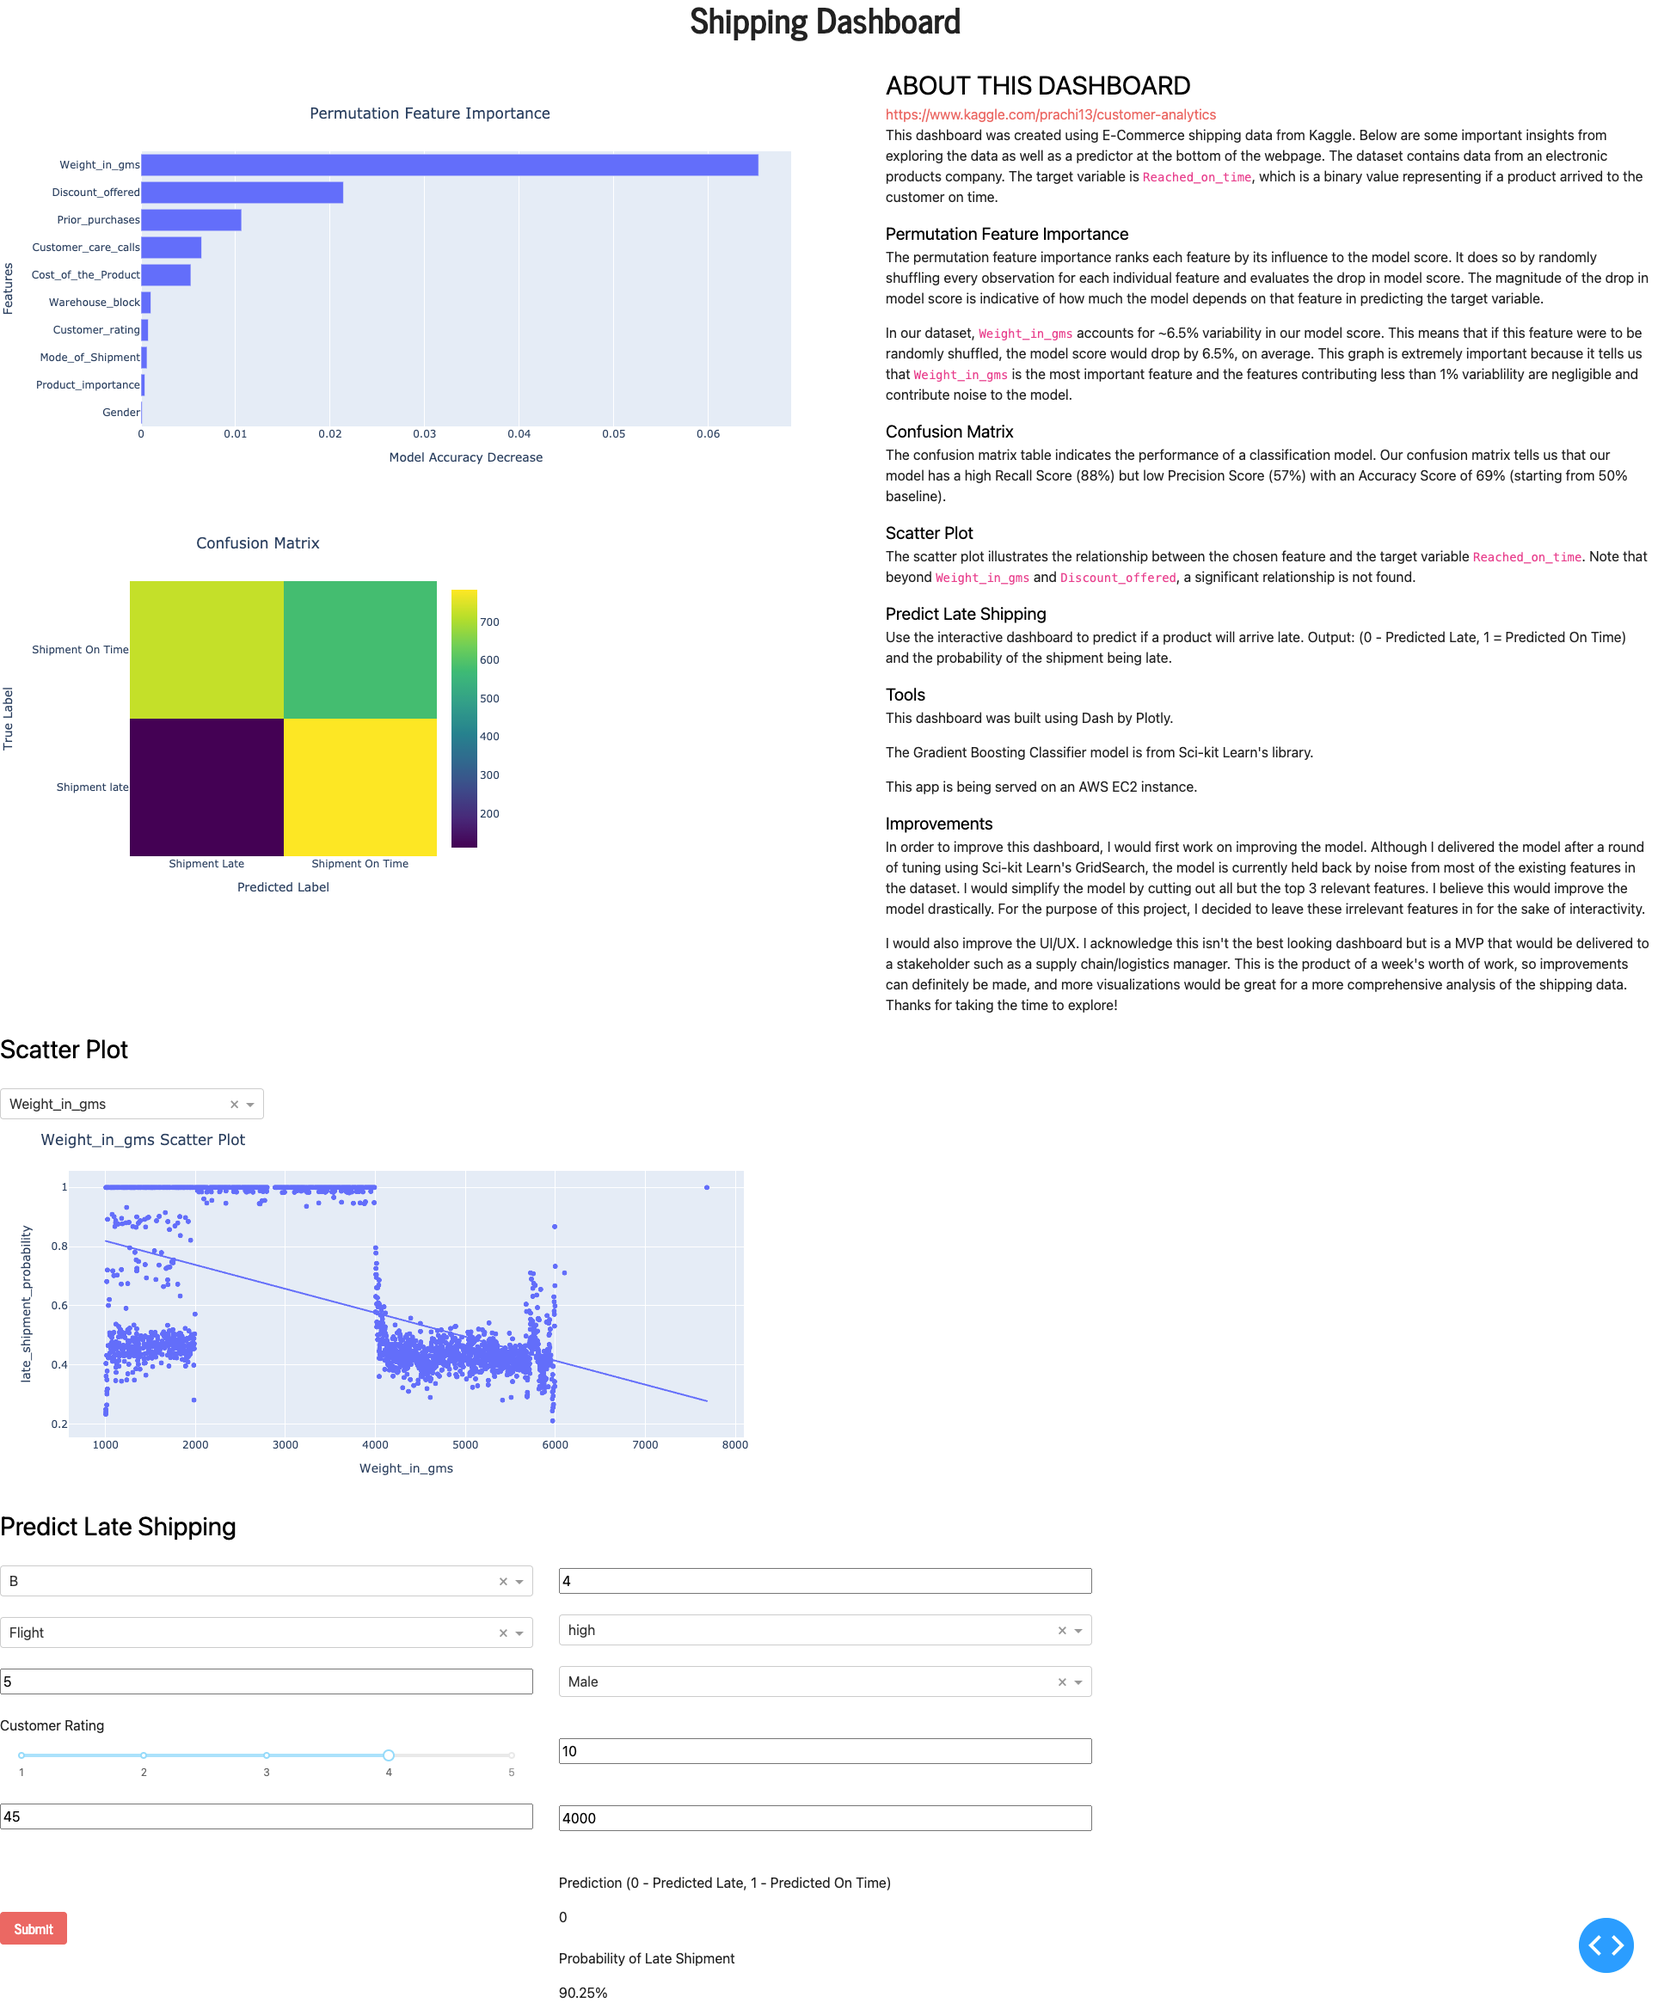
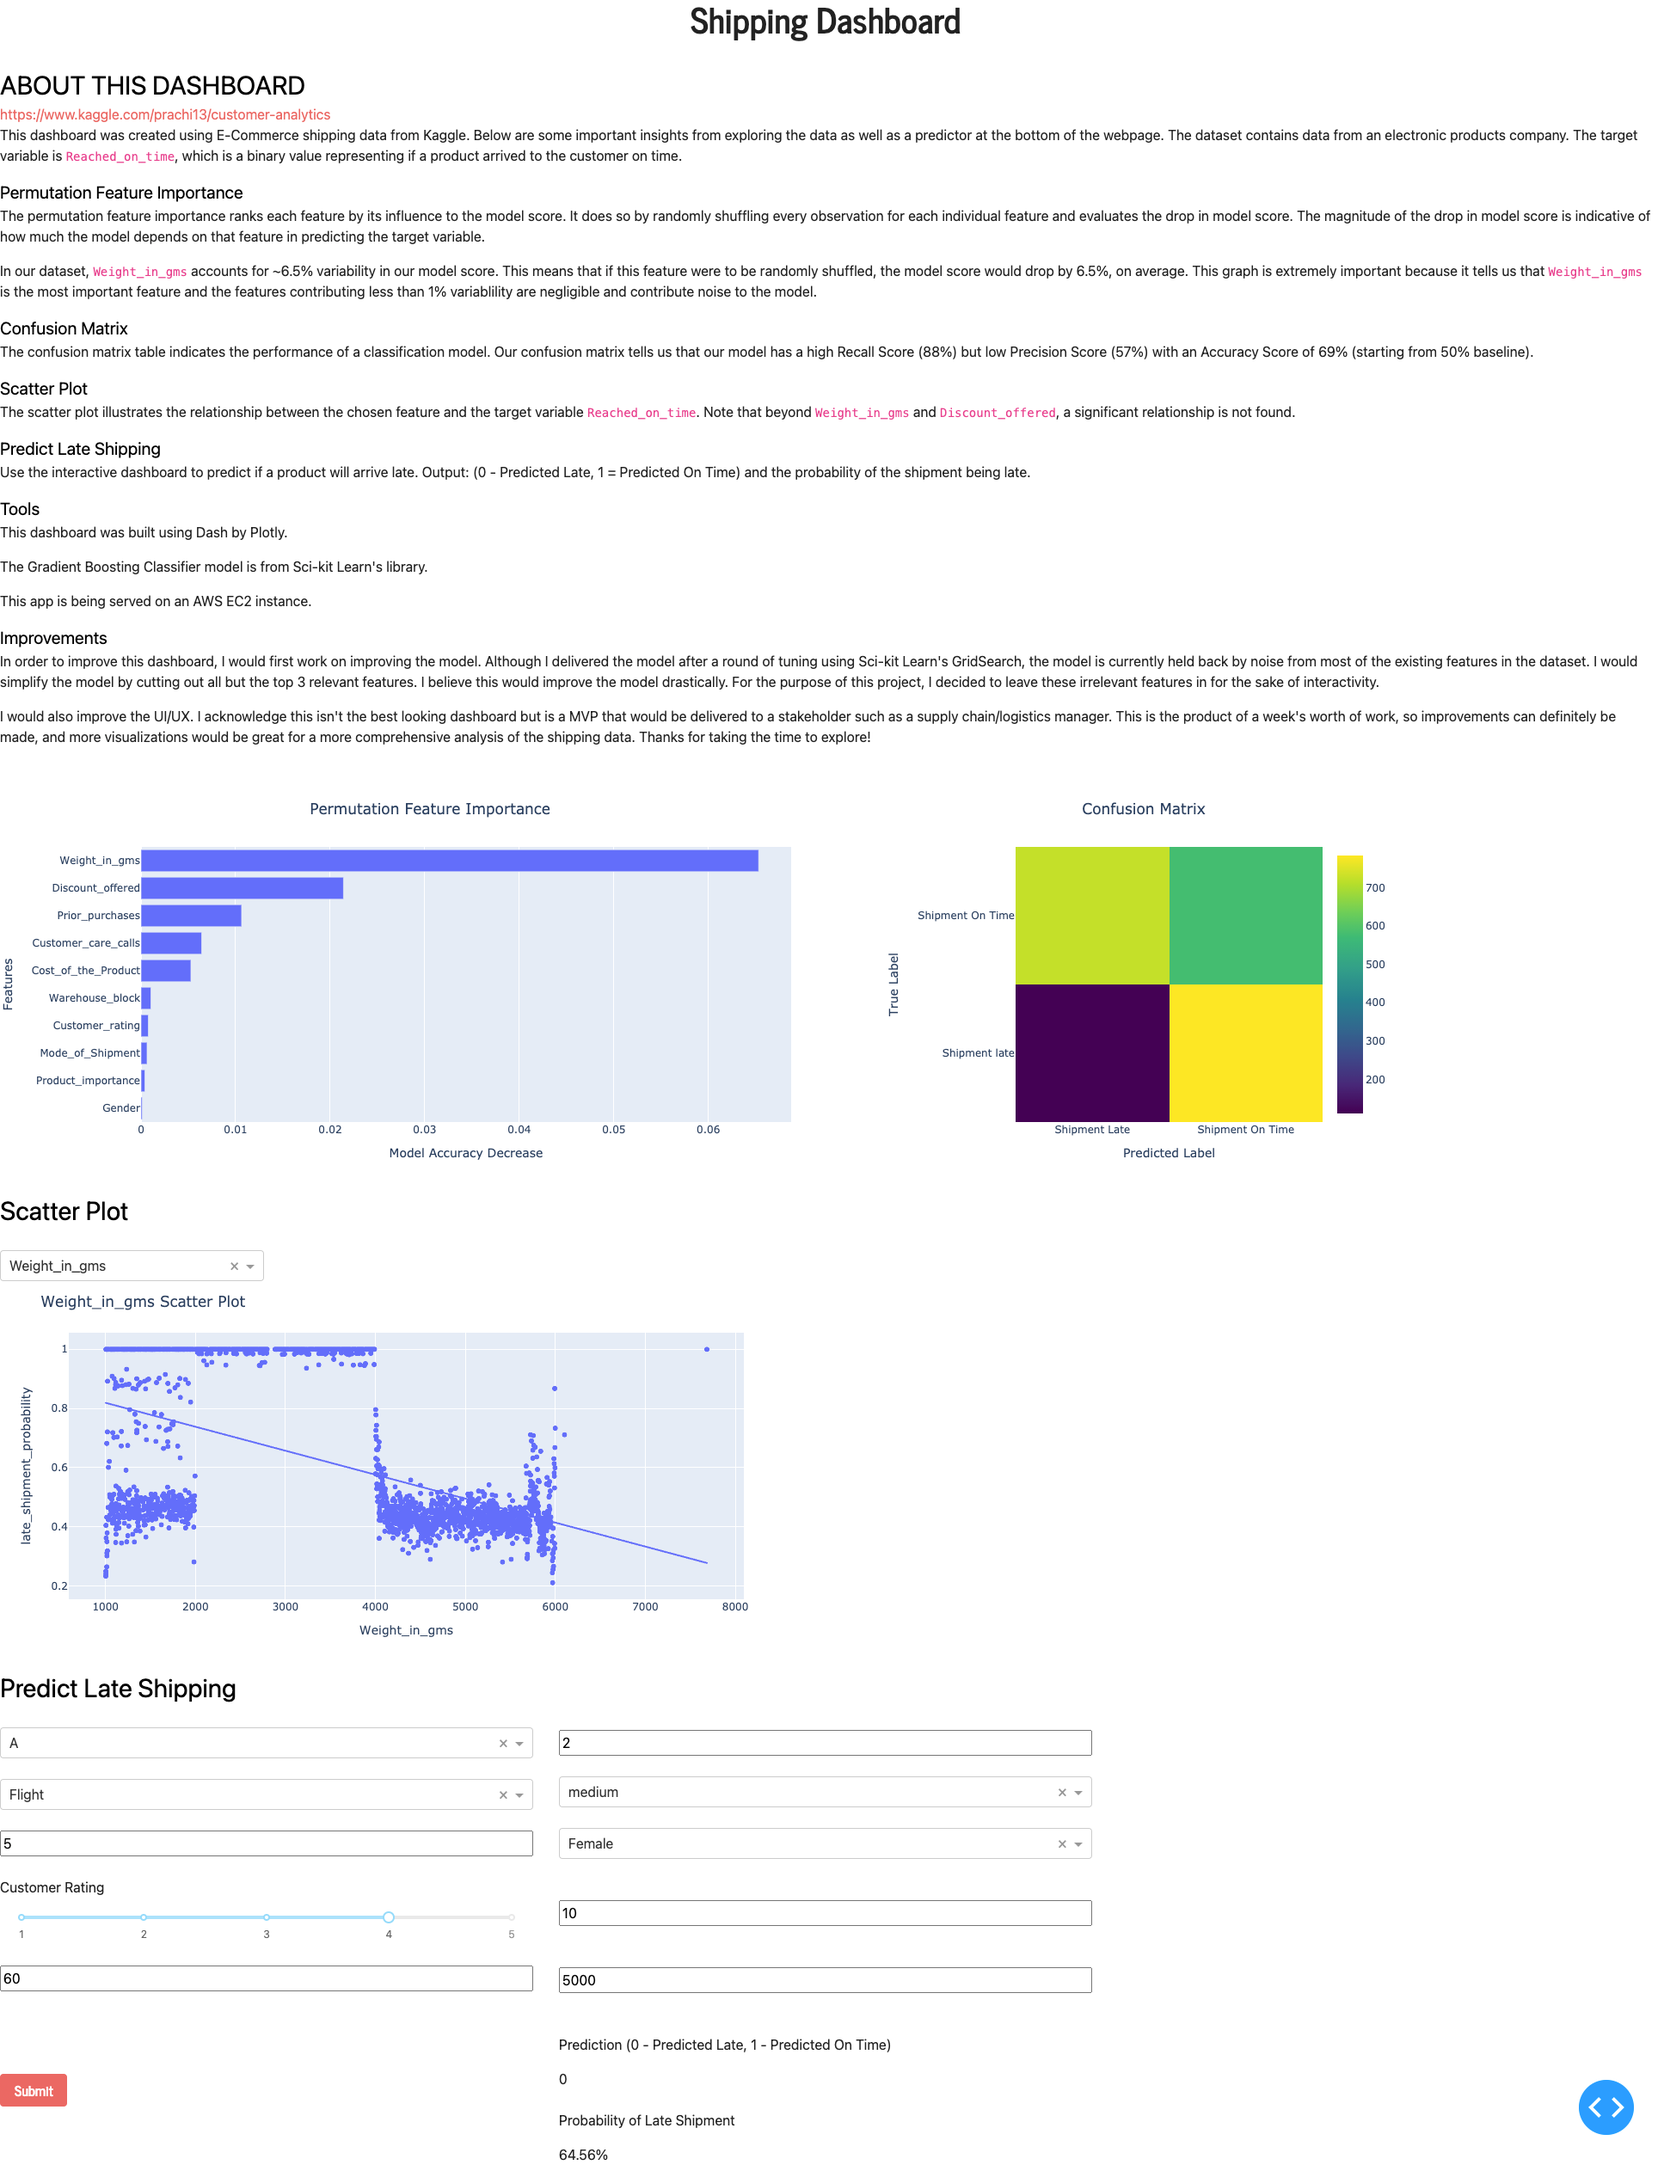
final layout

diff --git a/shipping.py b/shipping.py
@@ -117,16 +117,7 @@ app.layout = html.Div([
     html.Div([
         html.H1("Shipping Dashboard", style={'text-align': 'center'}),
         html.Br(),
-        dbc.Row([
-            dbc.Col([
-                dcc.Graph(id='perm_imp', figure=permutation_graph()),
-                html.Div([
-                    dcc.Graph(id='confusion', figure=confusion_matrix())
-                ]),
-                
-            ]),
-            dbc.Col([
-                html.Div("""ABOUT THIS DASHBOARD""", 
+        html.Div("""ABOUT THIS DASHBOARD""", 
                     style={'color': 'black', 'fontSize': 30}),
                 dcc.Link(href=
                         "https://www.kaggle.com/prachi13/customer-analytics"),
@@ -208,6 +199,14 @@ app.layout = html.Div([
                              visualizations would be great for a more comprehensive
                              analysis of the shipping data. Thanks for
                              taking the time to explore!"""),
+        dbc.Row([
+            dbc.Col([
+                dcc.Graph(id='perm_imp', figure=permutation_graph()),                
+            ]),
+            dbc.Col([
+                html.Div([
+                    dcc.Graph(id='confusion', figure=confusion_matrix())
+                ]),
             ]),
         ]),
         html.Div("Scatter Plot", style={'color': 'black', 'fontSize': 30}),

diff --git a/README.md b/README.md
@@ -1,4 +1,4 @@
-# What our app does
+# What the app does
 The app shows visualizations from E-Commerce shipping data from Kaggle
 [here](https://www.kaggle.com/prachi13/customer-analytics). It's also
 interactive in creating a scatter plot based on a user-chosen feature when
